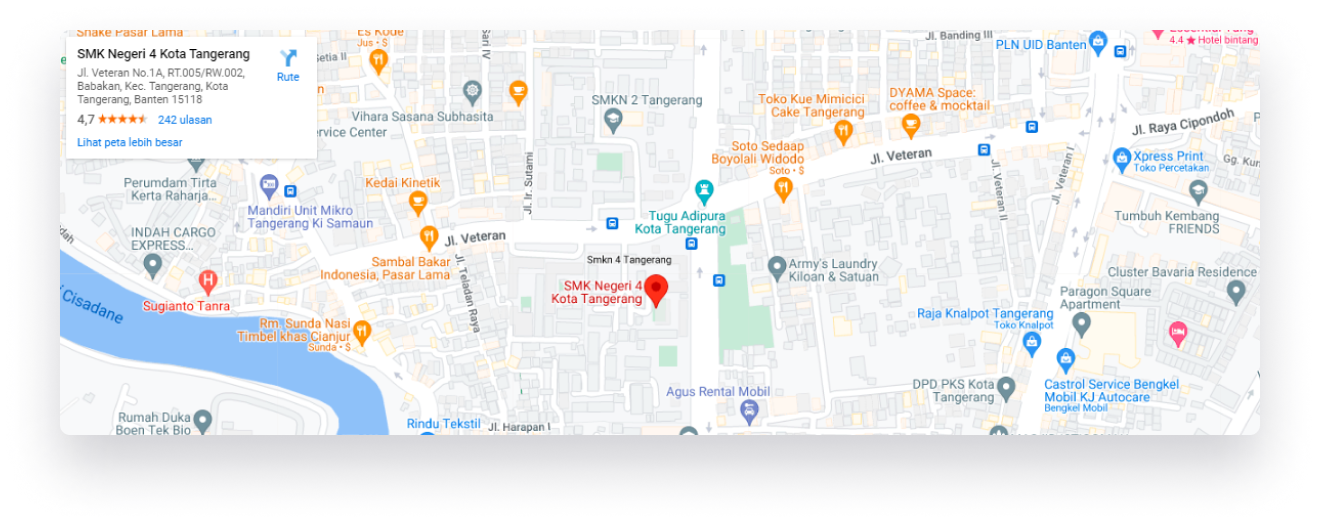
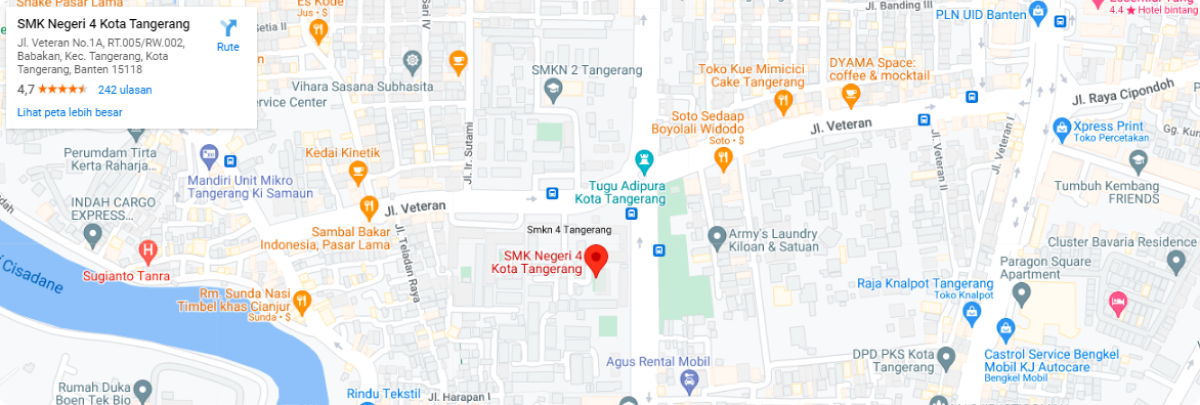
Add Location section

diff --git a/src/Sections/Location.jsx b/src/Sections/Location.jsx
@@ -1,0 +1,20 @@
+import React from 'react'
+
+function Location() {
+  return (
+    <section className='2xl:mt-96' id='services'>
+      <div className="container mx-auto my-12 px-4 py-2 md:px-4 lg:my-[6.25rem] lg:px-5 lg:py-7 xl:px-10">
+        <div className="flex w-full flex-col gap-4 ">
+          <span className='capitalised text-xs text-primary'>LOCATION</span>
+          <h2>🗺• Our Library Location</h2>
+
+          <div className="aspect-[80/27] rounded-10 bg-[url('./src/assets/images/Location.png')] bg-cover bg-no-repeat drop-shadow-extrabold-dark lg:mt-12 xl:mt-[5.625rem]">
+
+          </div>
+        </div>
+      </div>
+    </section>
+  )
+}
+
+export default Location

diff --git a/src/Sections/Services.jsx b/src/Sections/Services.jsx
@@ -23,7 +23,7 @@ function Services() {
           <span className='capitalised text-xs text-primary'>SERVICES</span>
           <h2>🚀• The Services for You</h2>
 
-          <div className="flex flex-col gap-16 lg:mt-[5.625rem] xl:gap-[8.75rem]">
+          <div className="flex flex-col gap-16 lg:mt-12 xl:mt-[5.625rem] xl:gap-[8.75rem]">
             {services.map(({ logo, title, description }) => {
               return <div className="flex flex-wrap justify-between gap-9 lg:flex-nowrap">
                 <img src={logo} alt={title} className='w-full self-center rounded-[0.625rem] drop-shadow-extrabold-dark md:w-1/2 lg:w-1/2 lg:max-w-[37.5rem] xl:max-w-[45%]'/>

diff --git a/src/Sections/Reviews.jsx b/src/Sections/Reviews.jsx
@@ -35,7 +35,7 @@ function Reviews() {
           <span className='capitalised text-xs text-primary'>REVIEWS</span>
           <h2>💬• Reviews of Others</h2>
 
-          <div className="flex flex-wrap justify-center gap-9 lg:gap-[3.1875rem] xl:mt-[5.625rem] 2xl:justify-around ">
+          <div className="flex flex-wrap justify-center gap-9 lg:mt-12 lg:gap-[3.1875rem] xl:mt-[5.625rem] 2xl:justify-around ">
             {reviews.map((data) => {
               return <Review logo={data.logo} name={data.name} review={data.review} occupation={data.occupation} /> 
             })}

diff --git a/src/App.jsx b/src/App.jsx
@@ -3,6 +3,7 @@ import Hero from './Sections/Hero'
 import Features from './Sections/Features'
 import Services from './Sections/Services'
 import Reviews from './Sections/Reviews'
+import Location from './Sections/Location'
 import Footer from './Sections/Footer'
 
 function App() {
@@ -17,6 +18,7 @@ function App() {
       <Features />
       <Services />
       <Reviews />
+      <Location />
       <Footer />
     </>
   )
